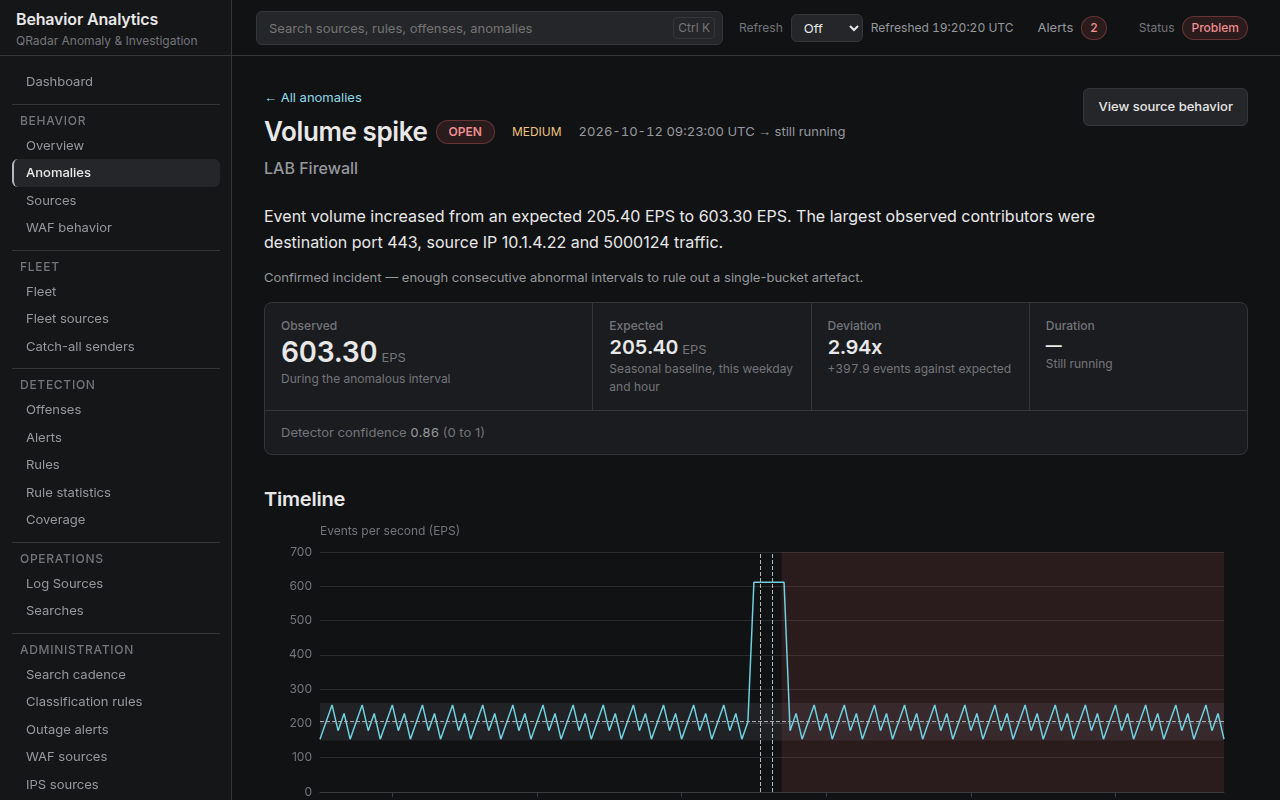
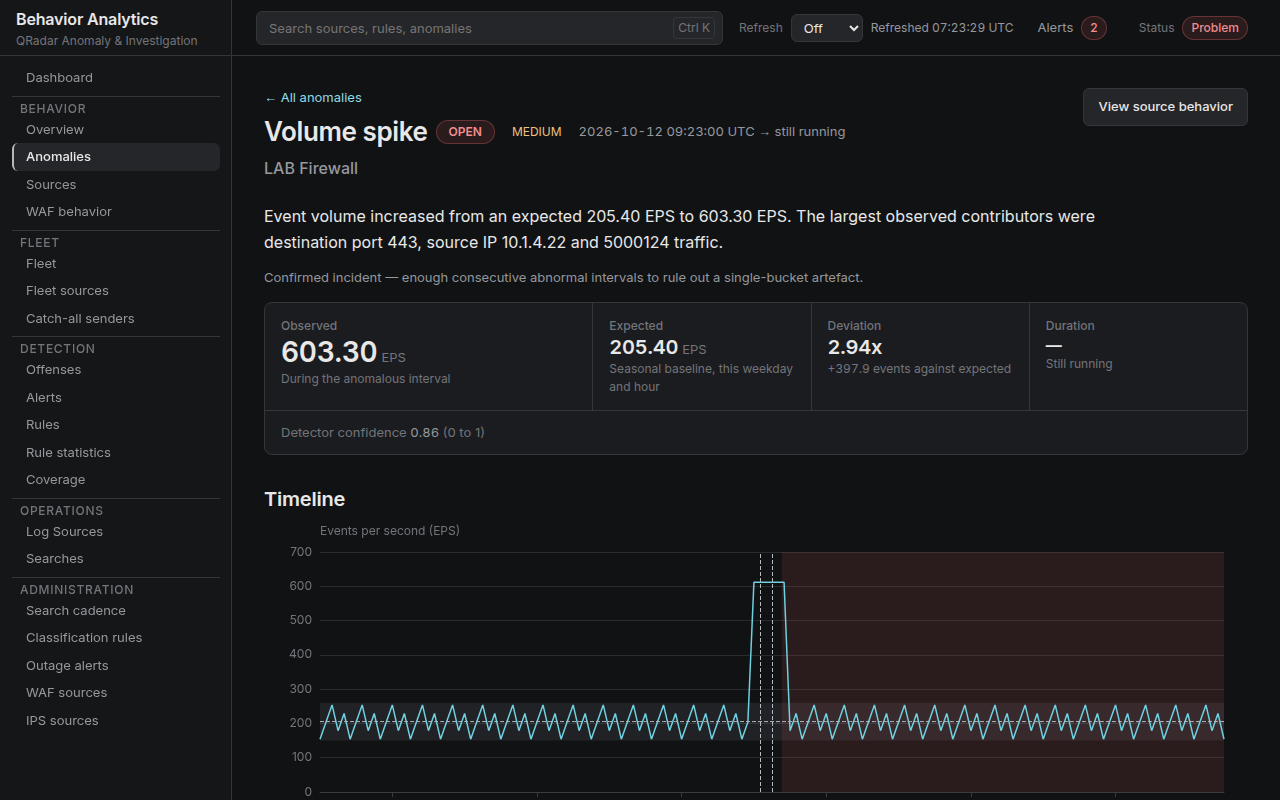
docs: screenshots recaptured after Phase 5; README states the block-shift result (T-114, GLM 5.3 Flash free)

Changed region(s): [[0.0, 0.0938, 0.125, 1.0], [0.3125, 0.0312, 0.4062, 0.0625]]

diff --git a/docs/tasks/T-114.report.md b/docs/tasks/T-114.report.md
@@ -1,0 +1,168 @@
+# T-114 report — refresh the docs screenshots after Phase 5, and state the block-shift result
+
+*T-114, written as the work went; both parts are complete.*
+
+## Part 2 — README block-shift line
+
+T-110 closed the block-shift analysis. The "Part 4 analysis (sixth hand, ~21:15Z)" section of
+`docs/tasks/T-054.report.md` records: `IPS_BLOCK_RATIO_SHIFT` went ANOMALOUS in the change buckets
+(20:30, 20:35, 20:40) on both lab sources — 0.6000 vs expected 0.1000 on 412 and 0.6008 vs 0.1000
+on 413 at 20:40 — both incidents `CANDIDATE → OPEN → RECOVERING → RESOLVED` with HIGH severity,
+two alerts opened 20:47:33Z and resolved "condition recovered" 21:02:32Z by fingerprint.
+
+**Before** (`README.md`, line ~1263):
+
+> Block-shift: **run, analysis pending** — it ran at 20Z after T-107, and the T-054 report has no
+> "Part 4 analysis" section (T-110), so no result is stated here.
+
+**After**:
+
+> Block-shift, with alerting on, **passed**: `IPS_BLOCK_RATIO_SHIFT` observed 0.60 against
+> expected 0.10 on both lab sources in the change buckets, its two alerts opened 20:47:33Z and
+> resolved "condition recovered" at 21:02:32Z; the analysis is in
+> [T-054](docs/tasks/T-054.report.md) "Part 4 analysis" (T-110).
+
+Surrounding sentences unchanged; link style (relative `docs/` links, as in the same paragraph)
+kept. `git diff --stat` shows only this one paragraph: 1 file changed, 5 insertions(+), 3
+deletions(-).
+
+## Part 1 — screenshot recapture
+
+### Setup (scratch outside the repository, per the task)
+
+Followed `/home/efe/Documents/QRadar-Dash-work/t111/README.md` exactly, in a copy. Copied
+`capture.mjs`, `README.md` and `fixture/` from `…/t111/` into
+`/home/efe/Documents/QRadar-Dash-work/t114/` and edited only the copies: ports 3114/8114/9114
+(`capture.mjs` CDP/APP/API constants and the `ui52` port argument; fixture `PORT = 8114` and
+`Access-Control-Allow-Origin http://127.0.0.1:3114` in the t098/ui55/ui56 copies), `W` and the
+Chrome `--user-data-dir` pointed at `…/t114/`. Worktree head checked: `feat/phase-ce` @ `1cd92e6`
+(all of Phase 5 merged).
+
+Commands, as run:
+
+1. Build and start Next (note the PID):
+   ```
+   export PATH=$HOME/.local/node/bin:$PATH
+   cd /home/efe/Documents/QRadar-Dash-wt/t114/frontend
+   export NEXT_PUBLIC_API_BASE_URL=http://127.0.0.1:8114/api/v1 INTERNAL_API_BASE_URL=http://127.0.0.1:8114/api/v1
+   npm run build        # exit 0
+   node node_modules/next/dist/bin/next start -p 3114 -H 127.0.0.1   # PID 55663 (node), 200 on :3114
+   ```
+   (The `next start` warning about `output: standalone` appeared, as it did in T-111; the server
+   serves and every route renders, so the capture proceeded.)
+2. Start headless Chrome:
+   ```
+   /usr/bin/google-chrome --headless=new --remote-debugging-port=9114 \
+     --user-data-dir=/home/efe/Documents/QRadar-Dash-work/t114/chrome-profile \
+     --hide-scrollbars --no-first-run --disable-gpu --force-device-scale-factor=1 about:blank
+   # PID 56281; /json/version answered Chrome/155.0.8059.79. Chrome's own sandbox worked;
+   # --no-sandbox was NOT needed.
+   ```
+3. Capture: `node capture.mjs all` (exit 0), writing 27 PNGs to `…/t114/png/`.
+
+### Result
+
+The capture produced exactly the 27 existing filenames; the `ls` set of `png/` matched
+`docs/screenshots/ui/` before the copy, and only the 27 existing PNGs were overwritten
+(`git status` in that folder: 27× modified, nothing added, renamed or removed).
+
+Document width per capture (from `logs/measurements.json`, printed by `capture.mjs`): doc width
+equals the viewport on **every** capture — `1440/1440`, `1280/1280` or `1024/1024` — so no
+horizontal overflow anywhere. Page heights (`scrollHeight/clientHeight`): behavior 1517,
+behavior-sources 1612/1544, behavior-source-detail 1946/1946/2189, anomalies 2264/2249,
+anomaly-detail 1597/1597/1760, ips-incident 1745/1930, dashboard 2016/2826, waf-overview
+900/849, waf-endpoint-incident 1393/1625, fleet 2052/2702, admin 900/768, rules-statistics
+2079/1939, log-sources 900/768 (the routes scroll vertically by design; waf-overview, admin and
+log-sources fit their viewports without vertical scroll).
+
+### PNGs opened and what they show
+
+- `dashboard-1440x900.png` — the t098 fixture dashboard: Total EPS 1,299.90 with a **Partial**
+  pill and "Partial: 21,525 of 21,600 intervals collected" next to the EPS-by-source-class chart;
+  Log sources 48 of 51 with Attention/Recovering/Insufficient-data/Normal counts; Fleet EPS chart
+  with "Observed" and "Sum of per-source expected" legend, axis unit EPS, times 20:00–16:00 UTC;
+  Active anomalies card states "3 sources not judged; they are not in these counts."
+  **UI-5.9 confirmed:** "Template, not saved" is a badge on its own line directly below the
+  "SOC Overview" heading, followed by the two grey explanation sentences.
+- `anomalies-1024x768.png` — **UI-5.9 confirmed:** state pills read in upper case (**OPEN**, and
+  one **RESOLVED**); "Observed → Expected" is right-aligned with its EPS unit ("603.30 → 205.40
+  EPS"); severity and Evidence: Complete/Partial/**Failed** render per row; the whole nav fits
+  at 1024 width.
+- `waf-endpoint-incident-1440x900.png` (the WAF investigation) — "Request-rate spike" with an
+  OPEN pill and HIGH, span 2026-10-14 00:20:00 → 00:50:00 UTC; observed 412 vs expected 41.5
+  requests/5 min, deviation 9.93x; detector confidence 0.88; endpoint coverage 97.2%; the
+  Timeline stacked chart carries axis units ("Requests per 5 min (count)", "Coverage (%)") and
+  "Time (UTC)"; the coverage strip shows the unmeasured gaps instead of drawing zeros.
+- `ips-incident-1024x768.png` (the IPS investigation) — "Destination-port rate spike", OPEN
+  pill, HIGH; Detected / Opened 2026-10-12 09:05:00 / 09:15:00 UTC, Resolved "—"; observed 940
+  vs expected 120 events/5 min, deviation 7.83x, duration 30m; timeline axis "Events
+  (events / 5 min)".
+- `rules-statistics-1440x900.png` — the ui55 `st=partial` honesty state survives Phase 5
+  unchanged: a PARTIAL banner "Only 160 of 168 windows in the span are complete (3 missing,
+  3 truncated, 2 failed). Times are UTC." above Rule composition, repeated on Most matched;
+  composition and matched tables carry tabular figures, right-aligned value columns and the
+  "Match rate (events/s)" unit column; Origin filter and window switch render as designed.
+
+### State of the captures
+
+The capture produced no error state and no page overflow at any captured viewport: doc width
+equals the viewport everywhere, each fixture scene's control was set before the shot (the script
+does this per scene), and the measured page texts in `logs/capture.log` show every route
+rendering its content rather than a loading state. Everything this task changed stays within
+the allowed files: the 27 PNGs (overwrite only), the one README paragraph and this report.
+
+### Teardown
+
+- Next stopped by PID: `kill 55663` (and checked its launcher wrapper 55660 was gone, and
+  `curl :3114` then failed with 000).
+- Chrome stopped by PID: `kill 56281`; `/json/version` on :9114 then refused connection, and no
+  surviving process referenced `/home/efe/Documents/QRadar-Dash-work/t114/chrome-profile`.
+  No `pkill -f` or `killall` was used. Other agents' Chrome processes were left alone.
+
+### The capture commands' output (verbatim, first field trimmed to scene + file)
+
+The full capture log is at `/home/efe/Documents/QRadar-Dash-work/t114/logs/capture.log`; a
+per-capture document-width summary is in the Result section above. The measurement data is
+`…/t114/logs/measurements.json` (27 entries).
+
+---
+
+## AGENTS.md §6 summary
+
+1. **Files changed:**
+   - `docs/screenshots/ui/*.png` — all 27 PNGs overwritten under their existing names; nothing
+     added, renamed or removed (`git status`: 27× modified in that folder only).
+   - `README.md` — the single "Block-shift: run, analysis pending" sentence replaced with the
+     T-054 Part 4 result (before/after above). `git diff --stat`: 1 file changed, 5
+     insertions(+), 3 deletions(-), touching only that paragraph.
+   - `docs/tasks/T-114.report.md` — new, this file.
+   - Scratch outside the repository: `/home/efe/Documents/QRadar-Dash-work/t114/`
+     (`capture.mjs`, `README.md`, `fixture/`, `png/`, `logs/` with `capture.log`,
+     `measurements.json`, PIDs and the build log). Nothing under `/tmp`; no file left in the
+     repository that is not allowed.
+2. **What I did:** re-ran the T-111 capture on this worktree's head (`feat/phase-ce` @
+   `1cd92e6`, Phase 5 merged) against ports 3114/8114/9114, with `capture.mjs`, `fixture/` and
+   the capture README copied to `…/t114/` and edited only there (ports and paths). All 27
+   captures succeeded with doc width equal to the viewport; I copied them over
+   `docs/screenshots/ui/` unchanged in name. I then opened and stated what is in the required
+   PNGs (`dashboard-1440x900`, `anomalies-1024x768`, the WAF investigation
+   `waf-endpoint-incident-1440x900`, the IPS investigation `ips-incident-1024x768`,
+   `rules-statistics-1440x900`), confirming the two UI-5.9 checks: state pills read **OPEN** in
+   upper case, and "Template, not saved" is its own badge line under the dashboard heading.
+   Finally I replaced the README block-shift sentence with the T-110 result as the T-054 Part 4
+   section states it (0.60 observed vs 0.10 expected on both lab sources; alerts opened
+   20:47:33Z, resolved "condition recovered" 21:02:32Z), keeping the surrounding sentences and
+   the relative `docs/` link style.
+3. **Gates:** a documentation task names no lint/test gates, and none were run (no application,
+   test or stylesheet change exists in this task). What was actually run: `npm run build` —
+   exit 0; `node capture.mjs all` — exit 0, 27 captures; the PNG name-set check (`diff` of the
+   two `ls` outputs) — "FILE SETS MATCH"; `git status docs/screenshots/ui` — exactly 27
+   modified files; teardown verified PID-wise (`curl :3114` → 000, CDP :9114 refused, no
+   process left with my `--user-data-dir`). Chrome's own sandbox worked; `--no-sandbox` was not
+   needed.
+4. **Open points:** none for the two parts in scope. Two out-of-scope observations: the
+   `next start` console warning about `output: standalone` also appeared in T-111's run and the
+   server served normally, and every scene's measured text shows real content — nothing to fix
+   here.
+
+Do not commit — the orchestrator owns git.

diff --git a/README.md b/README.md
@@ -1260,9 +1260,11 @@ lints and updates this README.
   No notification row was stored, because no channel is configured (L-6). Source-concentration
   **passed**. A morning run of those two was voided by generator defect D-1; T-101 fixed the
   generator, and the part-3 re-run is what passed. New-port is still limited by its 24 h history
-  rule (L-1) and was not re-run. Block-shift: **run, analysis pending** — it ran at 20Z after
-  T-107, and the T-054 report has no "Part 4 analysis" section (T-110), so no result is stated
-  here. T-107, on the lab console only, added `IPS_Action` expressions for PAN and FTD through
+  rule (L-1) and was not re-run. Block-shift, with alerting on, **passed**:
+  `IPS_BLOCK_RATIO_SHIFT` observed 0.60 against expected 0.10 on both lab sources in the change
+  buckets, its two alerts opened 20:47:33Z and resolved "condition recovered" at 21:02:32Z; the
+  analysis is in [T-054](docs/tasks/T-054.report.md) "Part 4 analysis" (T-110). T-107, on the
+  lab console only, added `IPS_Action` expressions for PAN and FTD through
   the API under the lab-only exception. The application stays read-only. The lab profiles map
   ACTION, and FTD `Would block` counts as allowed. See
   [the Phase D design](docs/PHASE-D-IPS-BEHAVIOR.md).
